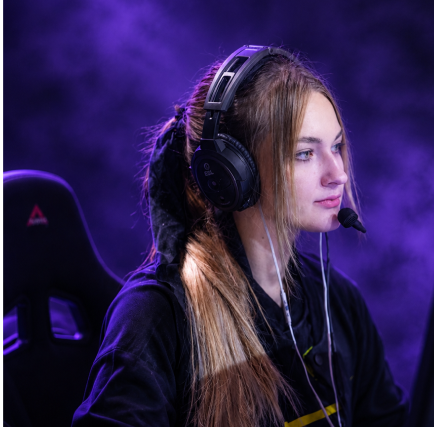
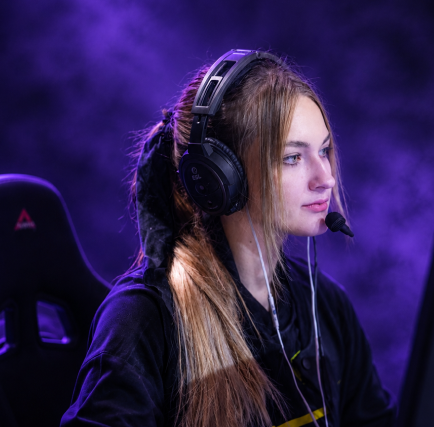
membermade

diff --git a/member/index.html b/member/index.html
@@ -69,17 +69,93 @@ $(function(){
     </div>
     
     <div class="teammemberbackground">
-     <div class="teammemberdiv">
-         <img src="../img/member-kanade.png" class="teammemberphoto" alt="かなで単独写真">
-         <img src="../img/member-4iri.png" class="teammemberphoto" alt="アイリ単独写真">
-     </div>
-      
-     <div class="teammemberdiv1">
-          <h3>KaNade</h3>
-          <p>部門：Shadowverse</p>
-          <p>思考を巡らせ、勝利を導く。</p>
-          <p>戦略で魅せる、Shadowverseプレイヤー。</p>
-     </div>
+       <div class="teammemberdiv">
+            <div class="teammemberdiv1">
+             <img src="../img/member-kanade.png" class="teammemberphoto" alt="かなで単独写真">
+             <h3>KaNade</h3>
+             <p>部門：Shadowverse</p>
+             <p>思考を巡らせ、勝利を導く。</p>
+             <p>戦略で魅せる、Shadowverseプレイヤー。</p>
+            </div>
+
+            <div class="teammemberdiv1">
+             <img src="../img/member-4iri.png" class="teammemberphoto" alt="アイリ単独写真">
+             <h3>4iri</h3>
+             <P>部門：Shadowverse</P>
+             <p>鋭いデッキ構築と、完璧な計算で魅せるトッププレイヤー。</P>
+            </div>
+        </div>
+
+        <div class="teammemberdiv2">
+            <div class="teammemberdiv1">
+             <img src="../img/member-yuipon.png" class="teammemberphoto" alt="ゆいぽん単独写真">
+             <h3>ゆいぽん</h3>
+             <p>部門：Shadowverse</p>
+             <p>可愛さだけじゃ終わらない。</p>
+             <p>一瞬の隙も見逃さない、超一級の勝負師。</p>
+            </div>
+
+            <div class="teammemberdiv1">
+             <img src="../img/member-n1ya.png" class="teammemberphoto" alt="ミヤ単独写真">
+             <h3>M1ya</h3>
+             <p>部門：Apex Legends</p>
+             <p>冷静な判断と確かな実力で戦況を見極める。</p>
+             <p>的確なプレイでチャンスをつかみ、勝利へと導くプレイヤー。</p>
+            </div>
+        </div>
+
+        <div class="teammemberdiv2">
+            <div class="teammemberdiv1">
+             <img src="../img/member-amber.png" class="teammemberphoto" alt="アンバー単独写真">
+             <h3>Amber</h3>
+             <p>部門：Apex Legends</p>
+             <p>立ち回りとエイムの美しさに</p>
+             <p>対戦相手も魅了（感染）されること間違いない。</p>
+            </div>
+
+            <div class="teammemberdiv1">
+             <img src="../img/member-5upern0va.png" class="teammemberphoto" alt="スーパーノヴァ単独写真">
+             <h3>5uperN0va</h3>
+             <p>部門：Apex Legends</p>
+             <p>一瞬の隙も見逃さない</p>
+             <p>卓越した判断力と大胆な立ち回りで、戦場を制する。</p>
+            </div>
+        </div>
+        
+        <div class="teammemberdiv2">
+            <div class="teammemberdiv1">
+             <img src="../img/member-nyx.png" class="teammemberphoto" alt="NYX単独写真">
+             <h3>NYX</h3>
+             <p>部門：Street Fighter</p>
+             <p>勝負の舞台では誰よりも熱く、拳ひとつで頂点を目指す。</p>
+            </div>
+
+            <div class="teammemberdiv1">
+             <img src="../img/member-venom.png" class="teammemberphoto" alt="ベノム単独写真">
+             <h3>VeNoM</h3>
+             <p>部門：Fortnite</p>
+             <p>逃げ場のない戦場に、鋭い一撃を。</p>
+             <p>予測不能なプレイで勝利をつかむ、攻めのプレイヤー。</p>
+            </div>
+        </div>
+
+        <div class="teammemberdiv3">
+          <div class="teammemberdiv1">
+             <img src="../img/member-ririsu.png" class="teammemberphoto" alt="月城リリス単独写真">
+             <h3>月城リリス</h3>
+             <p>部門：ストリーマー</p>
+             <p>月夜に輝くような存在感で、見る人を魅了するVTuber。</p>
+             <p>独自の世界観と個性あふれる魅力で、今注目の配信者。</p>
+            </div>
+
+           <div class="teammemberdiv1">
+             <img src="../img/member-nia.png" class="teammemberphoto" alt="紫月ニア単独写真">
+             <h3>紫月ニア</h3>
+             <p>部門：ストリーマー</p>
+             <p>夜の帳（とばり）に浮かぶ美しい月のように、</p>
+             <p>リスナーの心を優しく照らすVTuber。</p>
+            </div>
+        </div>
 
      
     </div>

diff --git a/css/style.css b/css/style.css
@@ -459,12 +459,16 @@ hr{
 /* memberページ(担当みさき) */
 .teammemberbackground{background-color: #222222;
 }
-.teammemberdiv{border:1px solid #f3f3f3;
-      display: flex;
+.teammemberdiv{
+    display: flex;
+    gap: 132px;
+    padding: 144px 100px 27px 100px; 
+    justify-content: center;
 }
 .teammemberphoto{border:3px solid #8E34FD;
-    margin: 144px 132px 144px 100px;
-    
+}
+.teammemberdiv1{
+
     h3{font-family: "Tomorrow","Noto sans JP";
     color: #f3f3f3;
     font-size: 48px;
@@ -478,11 +482,20 @@ hr{
       font-style: normal;
       font-size: 16px;
       color:#F3F3F3;
+      text-align: left;
     }
 }
-.teammemberdiv1{border:1px solid #f3f3f3;
+.teammemberdiv2{
     display: flex;
-
+    gap: 132px;
+    padding: 0px 100px 27px 100px; 
+    justify-content: center;
+}
+.teammemberdiv3{
+    display: flex;
+    gap: 132px;
+    padding: 400px 100px 100px 100px; 
+    justify-content: center;
 }
 
 
